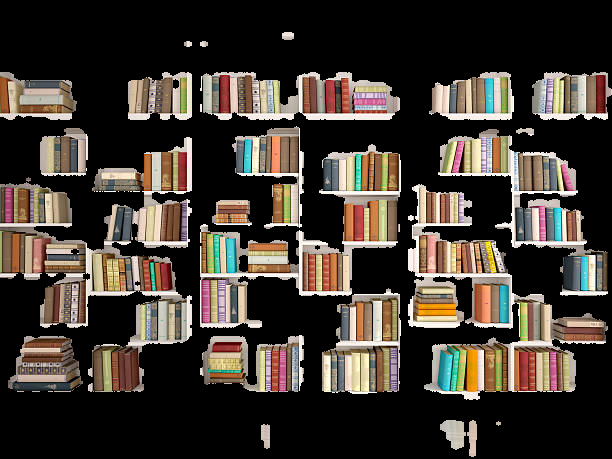
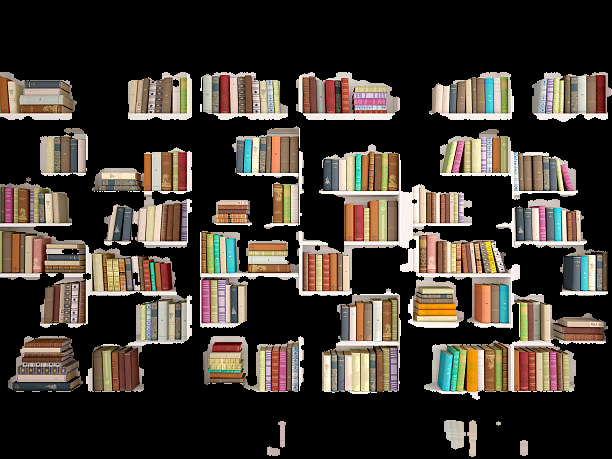
modified

diff --git a/testfiles_sey/test_detectBookshelf_usingColor.py b/testfiles_sey/test_detectBookshelf_usingColor.py
@@ -15,7 +15,7 @@ def nothing(x):
     pass
 
 # 마우스이벤트를 감지할 윈도우 생성
-cv.namedWindow('img_color_morphed')
+cv.namedWindow('img_color_morphed', cv.WINDOW_NORMAL)
 # cv.createTrackbar('threshold', 'img_color_morphed', 0, 255, nothing)
 # cv.setTrackbarPos('threshold', 'img_color_morphed', 50)
 
@@ -51,8 +51,6 @@ def mouse_callback(event, x, y, flags, param):
             upper_color2 = np.array([hsv[0], 255, 255])
             lower_color3 = np.array([hsv[0], threshold, threshold])
             upper_color3 = np.array([hsv[0] + 10, 255, 255])
-            #     print(i-10+180, 180, 0, i)
-            #     print(i, i+10)
 
         elif hsv[0] > 170: # 차가운 빨강에 가까운 컬러
             print("case2")
@@ -62,8 +60,6 @@ def mouse_callback(event, x, y, flags, param):
             upper_color2 = np.array([hsv[0] + 10 - 180, 255, 255])
             lower_color3 = np.array([hsv[0] - 10, threshold, threshold])
             upper_color3 = np.array([hsv[0], 255, 255])
-            #     print(i, 180, 0, i+10-180)
-            #     print(i-10, i)
 
         else: # 10 < hsv[0] < 170 : 빨강이 아닌 나머지 컬러
             print("case3")
@@ -95,7 +91,7 @@ cv.setMouseCallback('img_color_morphed', mouse_callback)
 
 while (True):
     # ret, img_color = cap.read() # 이미지를 웹캠으로부터 캡쳐하도록 한다. 조명의 영향을 더욱 많이 받음
-    path = "C:/Users/DELL/PycharmProjects/Object-detection/image/bookshelf_04.jpg"
+    path = "C:/Users/DELL/PycharmProjects/Object-detection/image/bookshelf_03.jpg"
     img_color = cv.imread(path, cv.IMREAD_COLOR)
     # cv.imshow('origin', img_color)
     # cv.waitKey(0)
@@ -121,8 +117,10 @@ while (True):
 
     img_mask = cv.morphologyEx(img_mask, cv.MORPH_OPEN, kernel)
     img_mask = cv.morphologyEx(img_mask, cv.MORPH_CLOSE, kernel)
+    cv.namedWindow('mask', cv.WINDOW_NORMAL)
     cv.imshow('mask', img_mask)
     img_inv_mask = cv.bitwise_not(img_mask)
+    cv.namedWindow('inv_mask', cv.WINDOW_NORMAL)
     cv.imshow('inv_mask', img_inv_mask) # 반전마스크를 이용해 책만 추출하기
     # 책장추출 마스크 저장하기
     path = "C:/Users/DELL/PycharmProjects/Object-detection/image/img_bookshelf_mask.jpg"
@@ -130,13 +128,14 @@ while (True):
 
     # [sub] img_inv_mask로 책만 png로 추출하기
     img_book_only = cv.bitwise_and(img_color, img_color, mask=img_inv_mask)
-    cv.imshow("img_book_only", img_book_only)
-    path = "C:/Users/DELL/PycharmProjects/Object-detection/image/img_book_only.png"
+    cv.namedWindow('img_book_only', cv.WINDOW_NORMAL)
+    cv.imshow('img_book_only', img_book_only)
+    path = "C:/Users/DELL/PycharmProjects/Object-detection/image/img_book_only.jpg"
     cv.imwrite(path, img_book_only)
 
 
 
-# 마스크 이미지로 원본 이미지에서 범위값에 해당되는 책장 부분을 획득합니다.
+    # 마스크 이미지로 원본 이미지에서 범위값에 해당되는 책장 부분을 획득합니다.
     img_result = cv.bitwise_and(img_color, img_color, mask=img_mask)
 
     # 물체 위치 추적 코드(Labeling 필요 -> 중심좌표, 영역크기, 외곽박스 좌표를 얻을 수 있음)
